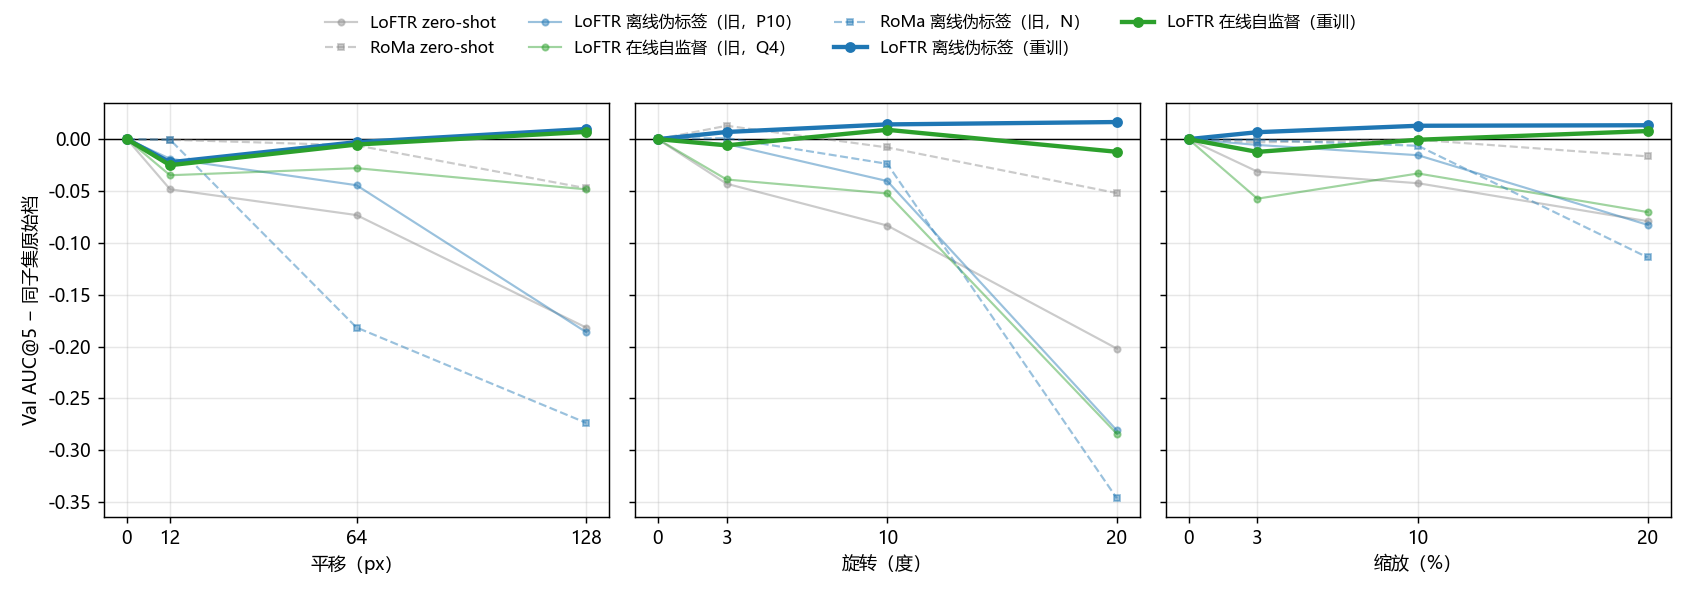
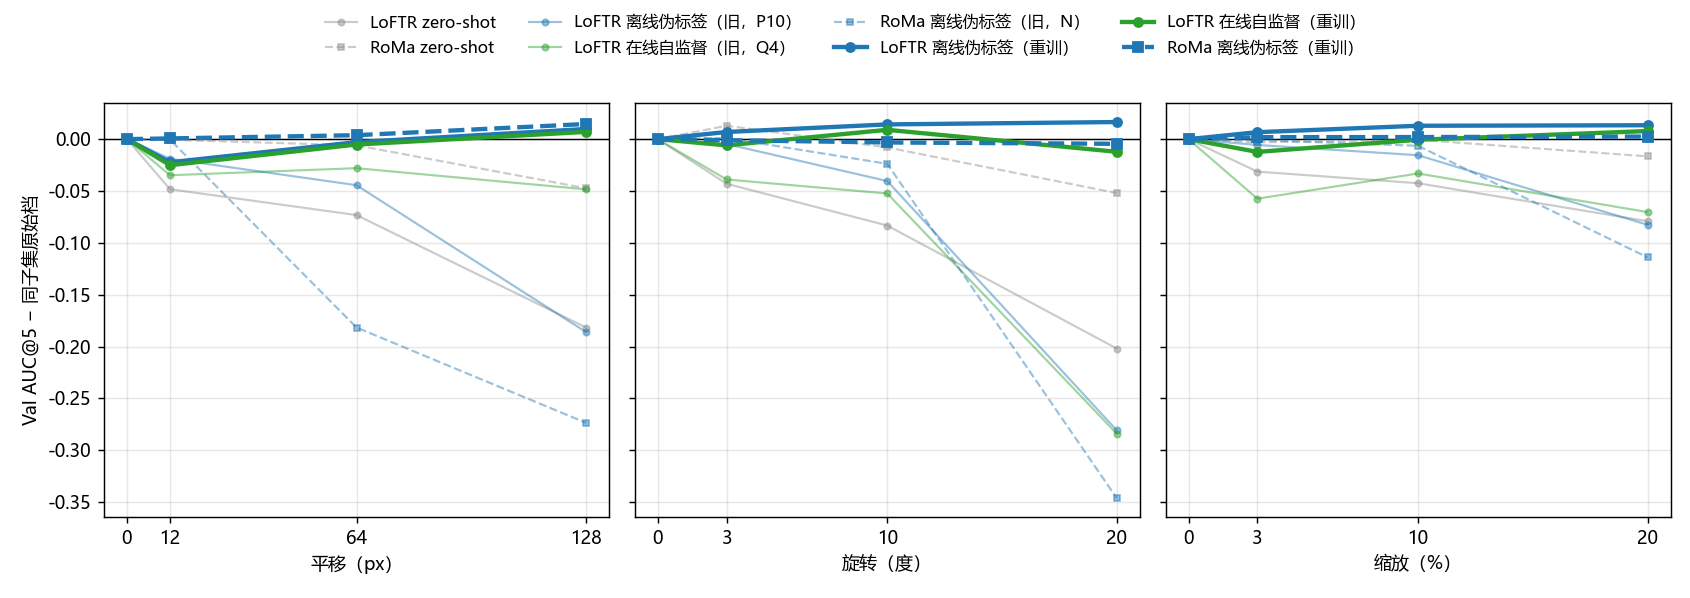
E9（#157）：Notes 补上 RoMa（noisy student 第 2 轮：原始 0.328，难版各档相对同子集原始档 −0.005 到 +0.015）

Changed region(s): [[0.3692, 0.2107, 0.9846, 0.2709], [0.0615, 0.1806, 0.3692, 0.2408], [0.6462, 0.0602, 0.8, 0.0903]]

diff --git a/runs/E9/notes.md b/runs/E9/notes.md
@@ -1,8 +1,8 @@
-# 训练扰动放大到难版范围以后，两种 LoFTR 无标注训练在难版各档上不再退化，原始档低约 0.02
+# 训练扰动放大到难版范围以后，三种无标注训练在难版各档上都不再退化，仍高于同骨干的 zero-shot
 
 **摘要**
 
-E7 发现，训练过的模型在难版评测的重档上失去了 zero-shot 的稳健性：旧的训练只在 SAR 一侧加 ±12 px、±3°、±3% 的已知扰动，或者不加扰动，模型对小范围平移过拟合。我们把训练扰动放大到难版的最重一档（平移半径 128 px、旋转 ±20°、缩放 ±20%，三项组合），其余配方不变，重训三种无标注训练方法：LoFTR 与 RoMa 的离线伪标签 noisy student，以及 LoFTR 的在线自监督。评测时发现，难版剔除画面外检查点会抬高重档的分数，所以我们以「同一检查点子集上的原始档」为基准衡量每档的变化。按这个口径，两种重训的 LoFTR 模型在 9 个档位上的变化都在 −0.025 到 +0.016 之间（Val AUC@5），旧的 LoFTR 模型在旋转 20° 上掉 0.28；代价是原始档比旧模型低约 0.02（离线 0.270 对 0.291，在线 0.271 对 0.289）。RoMa 的结果待补。两种 LoFTR 无标注训练在难版各档上都高于 LoFTR zero-shot，说明它们去掉小平移的过拟合以后仍然有效。
+E7 发现，训练过的模型在难版评测的重档上失去了 zero-shot 的稳健性：旧的训练只在 SAR 一侧加 ±12 px、±3°、±3% 的已知扰动，或者不加扰动，模型对小范围平移过拟合。我们把训练扰动放大到难版的最重一档（平移半径 128 px、旋转 ±20°、缩放 ±20%，三项组合），其余配方不变，重训三种无标注训练方法：LoFTR 与 RoMa 的离线伪标签 noisy student，以及 LoFTR 的在线自监督。难版会剔除扰动后落到画面外的检查点，这本身会抬高重档的分数，所以我们以「同一检查点子集上的原始档」为基准衡量每档的变化。按这个口径，三个重训模型在 9 个档位上的变化都在 −0.025 到 +0.016 之间（Val AUC@5），旧模型在旋转 20° 上掉 0.28–0.35。原始档上，重训的 RoMa 为 0.328，与旧模型（0.332）相当；两个重训的 LoFTR 模型为 0.270 与 0.271，比旧模型低约 0.02，仍比 LoFTR zero-shot 高 0.045。三种无标注训练去掉对小平移的过拟合以后仍然有效。
 
 **引言**
 
@@ -22,13 +22,13 @@ E7 在 SAR 一侧叠加已知的平移、旋转或缩放（各三档），重测
 
 *选模与评测。* 每轮、每个方法都按原始 Val AUC@5 取峰值（原协议）。难版评测与 E7 相同：同一份逐对 T（复用 E7 的扰动文件），误差换回原 SAR 坐标系量，落到 SAR 画面外的检查点不计。硬件口径同 E7：难版各档 LoFTR 在 RTX 3090、RoMa 在 V100 上推理；原始档是训练驱动在 V100 上评的，E7 抽查过同一 LoFTR 权重跨卡相差不超过 0.005。另外对每个最终模型的每个存档也在 9 档上评了 Val，报告按「原始 + 9 档平均」选模会选到哪一步。
 
-*同子集基准。* 难版剔除的检查点多在画面边缘，那里仿射外推的误差大，剔除以后分数会自然升高：平移 128 px 剔除了 Val 约 28% 的检查点。为分开「子集变了」和「模型变差了」，我们对每个模型和档位，用它原始档的预测、只在该档留下的检查点上按原协议算 AUC@5，记为同子集原始档；各档的「变化」都相对它来算。
+*同子集基准。* 难版剔除的检查点多在画面边缘，那里仿射外推的误差大，剔除以后分数会自然升高：平移 128 px 剔除了 Val 约 28% 的检查点。为分开「子集变了」和「模型变差了」，我们对每个模型和档位，用它原始档的预测、只在该档留下的检查点上按原协议算 AUC@5，记为同子集原始档；各档的「变化」都相对它来算（`code/subset.py`）。
 
 **结果**
 
-*重档的分数高于原始档，主要是剔除边缘检查点造成的。* 两种重训的 LoFTR 模型在多个重档上的 AUC@5 高于各自的原始档，例如 LoFTR 离线 noisy student 在平移 128 px 为 0.313，原始档为 0.270。只看同一批检查点时，它原始档的预测本身就有 0.304，所以扰动只带来 +0.010。E7 的旧模型同样受这个效应影响：P10 原始档的预测在平移 128 px 的子集上是 0.325，实测 0.139，退化幅度是 0.186，而不是 E7 按全集原始档算的 0.152。下文的变化都按同子集原始档计。
+*重档的分数高于原始档，主要是剔除边缘检查点造成的。* 三个重训模型在多个重档上的 AUC@5 高于各自的原始档，例如 LoFTR 离线 noisy student 在平移 128 px 为 0.313，原始档为 0.270。只看同一批检查点时，它原始档的预测本身就有 0.304，所以扰动只带来 +0.010。E7 的旧模型同样受这个效应影响：P10 原始档的预测在平移 128 px 的子集上是 0.325，实测 0.139，退化幅度是 0.186，而不是 E7 按全集原始档算的 0.152。下文的变化都按同子集原始档计。
 
-表 1：Val AUC@5，原始档（全集）、四个代表档的实测值，括号内为相对同子集原始档的变化（附件 `extra/data/summary.csv`、`extra/data/subset.csv`）。
+表 1：Val AUC@5，原始档（全集）与四个代表档的实测值，括号内为相对同子集原始档的变化（附件 `extra/data/summary.csv`、`extra/data/subset.csv`）。
 
 | 模型 | 原始 | 平移 12 px | 平移 128 px | 旋转 20° | 缩放 20% |
 |---|---|---|---|---|---|
@@ -39,30 +39,28 @@ E7 在 SAR 一侧叠加已知的平移、旋转或缩放（各三档），重测
 | LoFTR 在线自监督（重训） | 0.271 | 0.247（−0.025） | 0.306（+0.007） | 0.271（−0.012） | 0.295（+0.008） |
 | RoMa zero-shot | 0.236 | 0.238（−0.001） | 0.223（−0.047） | 0.199（−0.052） | 0.240（−0.017） |
 | RoMa 离线伪标签（旧，N） | 0.332 | 0.334（−0.001） | 0.085（−0.273） | 0.000（−0.346） | 0.234（−0.114） |
-| RoMa 离线伪标签 noisy student（重训，第 2 轮） | 0.320（第 1 轮） | 待补 | 待补 | 待补 | 待补 |
+| RoMa 离线伪标签 noisy student（重训，第 2 轮） | 0.328 | 0.330（+0.001） | 0.372（+0.015） | 0.337（−0.005） | 0.345（+0.003） |
 
 ![](extra/retention.png)
 
 图 1：三个轴上各档实测 Val AUC@5 减去同子集原始档（0 为扰动后没有变差）。粗线为重训的模型，淡色细线为 E7 的旧模型；颜色表示路线（灰为 zero-shot，蓝为离线伪标签，绿为在线自监督），实线圆点为 LoFTR，虚线方块为 RoMa。
 
-*放大训练扰动以后，两种 LoFTR 无标注训练在难版各档上不再退化。* LoFTR 离线 noisy student 在 9 档上的变化在 −0.022 到 +0.016 之间，在线自监督在 −0.025 到 +0.009 之间；旧模型在平移 128 px、旋转 20° 上掉 0.05–0.28，LoFTR zero-shot 掉 0.18–0.20（图 1）。唯一一致变差的是平移 12 px：所有 LoFTR 模型都掉 0.02–0.05，两个 RoMa 模型不掉；重训没有消除它，原因本文没有检验。Test 上规律相同：两种重训的 LoFTR 模型在 9 档上最多掉 0.008，旧模型最多掉 0.24–0.27（附件 `extra/data/subset.csv`）。
+*放大训练扰动以后，三个重训模型在难版各档上都不再退化。* 9 档上的变化，RoMa 离线 noisy student 在 −0.005 到 +0.015 之间，LoFTR 离线 noisy student 在 −0.022 到 +0.016 之间，LoFTR 在线自监督在 −0.025 到 +0.009 之间；旧模型在旋转 20° 上掉 0.28–0.35，两个 zero-shot 也分别掉 0.20（LoFTR）和 0.05（RoMa）（图 1）。Test 上规律相同：三个重训模型在 9 档上最多掉 0.008，旧模型最多掉 0.24–0.31（附件 `extra/data/subset.csv`）。唯一一致变差的是 LoFTR 在平移 12 px 上：所有 LoFTR 模型都掉 0.02–0.05，RoMa 模型都不掉；重训没有消除它，原因本文没有检验。
 
-*两种 LoFTR 无标注训练在难版各档上都高于 LoFTR zero-shot。* 原始档上，离线 noisy student 与在线自监督为 0.270 与 0.271，zero-shot 为 0.225；到旋转 20° 两者为 0.304 与 0.271，zero-shot 只剩 0.038，也高于 RoMa zero-shot 的 0.199（图 2）。也就是说，去掉对小平移的过拟合以后，这两种训练方法仍然有效。
+*三种无标注训练在难版各档上都高于同骨干的 zero-shot。* 原始档上，重训的 RoMa 为 0.328，RoMa zero-shot 为 0.236；两个重训的 LoFTR 模型为 0.270 与 0.271，LoFTR zero-shot 为 0.225。到旋转 20°，RoMa 是 0.337 对 0.199，LoFTR 是 0.304 与 0.271 对 0.038（图 2）。也就是说，去掉对小平移的过拟合以后，这三种训练方法仍然有效。重训的 RoMa 在平移 64 px、旋转 10°、缩放 10% 及更重的 6 档上是所有模型中最高的；在原始档和三个轻档上，旧 N 比它高 0.003–0.007。
 
 ![](extra/auc5_vs_level.png)
 
 图 2：三个轴上各模型的 Val AUC@5 随扰动档位的变化（0 为原始）。图例同图 1。
 
-*代价是原始档比旧模型低约 0.02。* 原始 Val AUC@5 上，离线 noisy student 0.270 比 P10 低 0.021，在线自监督 0.271 比 Q4 低 0.018；Test 上分别为 0.233 对 0.265、0.241 对 0.270。离线这条线的收益随轮数缓慢上升：第 1 至 4 轮的 Val AUC@5 为 0.260、0.265、0.268、0.270（Test 0.212、0.230、0.232、0.233），每轮都高于上一轮，到上限 4 轮为止，第 4 轮的峰值落在最后一个存档（第 8000 步）。重打的标签几乎全部过门槛（7907 对中第 2 至 4 轮依次 7772、7861、7850 对，zero-shot 标签为 7880 对）。
+*原始档上 RoMa 几乎不变，LoFTR 低约 0.02。* 原始 Val AUC@5 上，重训的 RoMa 0.328 比 N 低 0.004（Test 0.301 对 0.304）；LoFTR 离线 noisy student 0.270 比 P10 低 0.021，在线自监督 0.271 比 Q4 低 0.018（Test 0.233 对 0.265、0.241 对 0.270）。两条离线线的收益都随轮数上升：RoMa 第 1、2 轮为 0.320、0.328（Test 0.297、0.301）；LoFTR 第 1 至 4 轮为 0.260、0.265、0.268、0.270（Test 0.212、0.230、0.232、0.233），每轮都高于上一轮，到上限 4 轮为止，第 4 轮的峰值落在最后一个存档（第 8000 步）。重打的标签几乎全部过门槛：RoMa 两轮都是 7907 对全过，LoFTR 第 2 至 4 轮依次 7772、7861、7850 对（zero-shot 标签为 7880 对）。
 
-*在线自监督在大扰动下后期变差，按难版选模会换存档。* 在线这条线的原始 Val AUC@5 在第 500 步达到峰值 0.270，第 750 步以后匹配数从每对约 1200 个塌到约 100 个，原始档掉到 0.20–0.25；同一时期它在难版 9 档的平均却一直在 0.28–0.29。按「原始 + 9 档平均」选模，在线这条线会选第 2000 步（10 档平均 0.290，原始档 0.255）而不是第 500 步（0.276）；离线 noisy student 两种选法都选第 8000 步（附件 `extra/data/select.csv`）。旧 Q6（扰动 ±24 px、±5°）在原始 Val 上也有类似的后期变差（`runs/Q/notes.md`）。
-
-*RoMa。* 待补：第 1 轮原始 Val AUC@5 0.320（N 为 0.332），第 2 轮与难版各档待评测完成后补上。
+*在线自监督在大扰动下后期变差，按难版选模会换存档。* 在线这条线的原始 Val AUC@5 在第 500 步达到峰值 0.270，第 750 步以后匹配数从每对约 1200 个塌到约 100 个，原始档掉到 0.20–0.25；同一时期它在难版 9 档的平均却一直在 0.28–0.29。按「原始 + 9 档平均」选模，在线这条线会选第 2000 步（10 档平均 0.290，原始档 0.255）而不是第 500 步（0.276）；LoFTR 离线 noisy student 两种选法都选第 8000 步（附件 `extra/data/select.csv`）。旧 Q6（扰动 ±24 px、±5°）在原始 Val 上也有类似的后期变差（`runs/Q/notes.md`）。RoMa 的逐存档难版评测还没跑完，选模对照待补。
 
 **讨论**
 
-E7 留下的问题是：无标注训练的收益是不是只来自对小平移的过拟合。对 LoFTR 的两种训练，答案是否定的：把训练扰动放大到难版范围以后，它们在原始档仍比 zero-shot 高约 0.045，在难版各档上不再退化，在旋转 20° 这类原数据中没有的几何差异上也保持住了。放大扰动的代价是原始档低约 0.02，这说明旧模型原始档的领先里有一部分来自贴合原数据的几何分布。
+E7 留下的问题是：无标注训练的收益是不是只来自对小平移的过拟合。对三种训练，答案都是否定的：把训练扰动放大到难版范围以后，它们在原始档仍明显高于同骨干的 zero-shot（RoMa 高 0.092，LoFTR 高约 0.045），在难版各档上不再退化，在旋转 20° 这类原数据中没有的几何差异上也保持住了。放大扰动的代价因骨干而异：RoMa 的原始档几乎不变，LoFTR 低约 0.02，说明旧 LoFTR 模型原始档的领先里有一部分来自贴合原数据的几何分布。
 
-局限有四点。第一，扰动是合成的，补零区和重采样都不是真实数据里的情况；平移 12 px 上所有 LoFTR 模型的一致下降可能与此有关，本文没有检验。第二，训练扰动覆盖到难版最重一档，难版各档都在训练范围内，本文没有测训练范围之外的外推。第三，LoFTR 离线这条线换成了纯 noisy student，与 P10 的迭代链不同，两者的差别不全来自扰动；每个方法只有一个随机种子。第四，同子集基准修正了检查点子集的影响，但 E7 与本文的难版表都按全集原始档报告，读表时要注意重档的数字偏高。
+局限有四点。第一，扰动是合成的，补零区和重采样都不是真实数据里的情况；LoFTR 在平移 12 px 上的一致下降可能与此有关，本文没有检验。第二，训练扰动覆盖到难版最重一档，难版各档都在训练范围内，本文没有测训练范围之外的外推。第三，LoFTR 离线这条线换成了纯 noisy student，与 P10 的迭代链不同，两者的差别不全来自扰动；每个方法只有一个随机种子。第四，同子集基准修正了检查点子集的影响，但 E7 与本文的难版表都按全集原始档报告，读表时要注意重档的数字偏高。
 
 对后续研究，有三点值得做。一是以后报告难版结果时，把同子集原始档作为基准，否则训练扰动大的模型会显得「越扰越好」。二是在线自监督在大扰动下后期变差，与旧 Q6 相同，选模若纳入难版，会换到更晚的存档；如果难版升为评判标准，选模规则需要一起定。三是 LoFTR 在平移 12 px 上的一致下降值得单独查。
